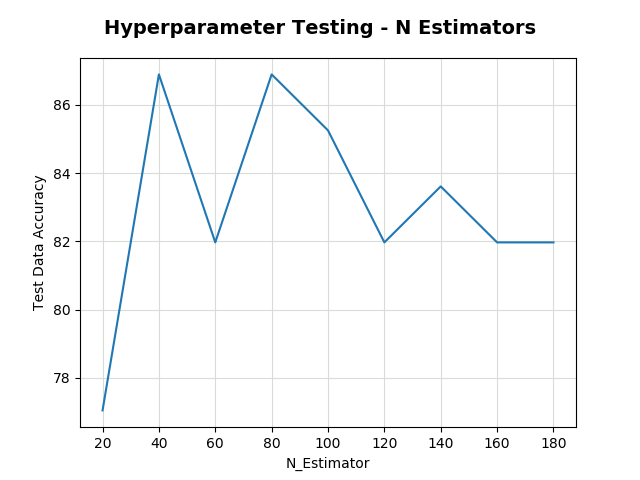
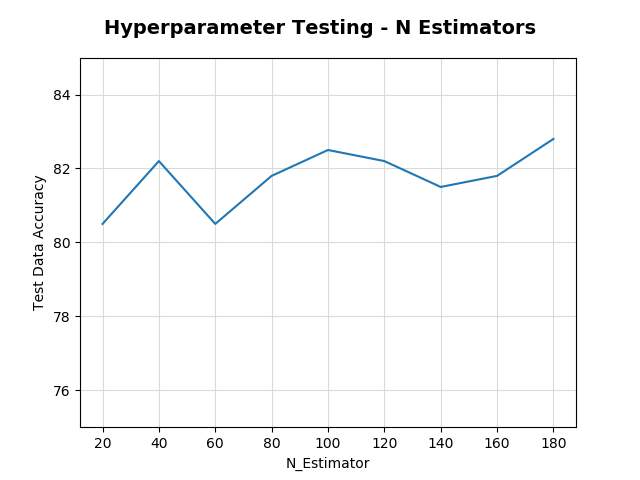
N Estimators Cross-Val Update

diff --git a/Heart_Disease_Univariate_Classification/ml_model_build.py b/Heart_Disease_Univariate_Classification/ml_model_build.py
@@ -143,29 +143,34 @@ print('Classification Report \n', classification_report(y_test, y_pred), '\n')
 #------------------------------------------------------------------------------
 print('\n-------------------- 5. MODEL IMPROVEMENTS -----------------------\n')
 
-#try different amount of n_estimators
+#commented out due to large run times, testing is complete see output figure
+'''
+#try different amount of n_estimators - we'll use cross-val rather than score to try and get a more stable result.
+
+cv_score = cross_val_score(clf, x, y, cv=5)
 
 x_t = range(20, 200, 20)
 y_t = []
 for i in x_t:
     clf_t = RandomForestClassifier(n_estimators=i)
-    clf_t.fit(x_train, y_train)
-    q = round((clf_t.score(x_test, y_test) * 100), 2)
-    print(f'Test accuracy with n_estimators = {i} is {q}%')
-    y_t.append(q)
+    cv_score = cross_val_score(clf_t, x, y, cv=5)
+    cv_score_av = round(np.mean(cv_score)*100,1)
+    print(f'Test accuracy with n_estimators = {i} is {cv_score_av}%')
+    y_t.append(cv_score_av)
     
 fig, ax = plt.subplots()
 ax.plot(x_t, y_t)
 
 ax.set(xlabel='N_Estimator',
-       ylabel='Test Data Accuracy')
+       ylabel='Test Data Accuracy',
+       ylim=(75, 85))
 ax.set_axisbelow(True)
 ax.grid(color='xkcd:light grey')
 
 fig.suptitle('Hyperparameter Testing - N Estimators', y=0.96, fontsize=14, fontweight='bold');
 
 fig.savefig('figures\Hyperparameter_Testing_N_Estimators.png')
-
+'''
 
 #------------------------------------------------------------------------------
 print('\n----------------- 6. SAVING THE TRAINED MODEL --------------------\n')
